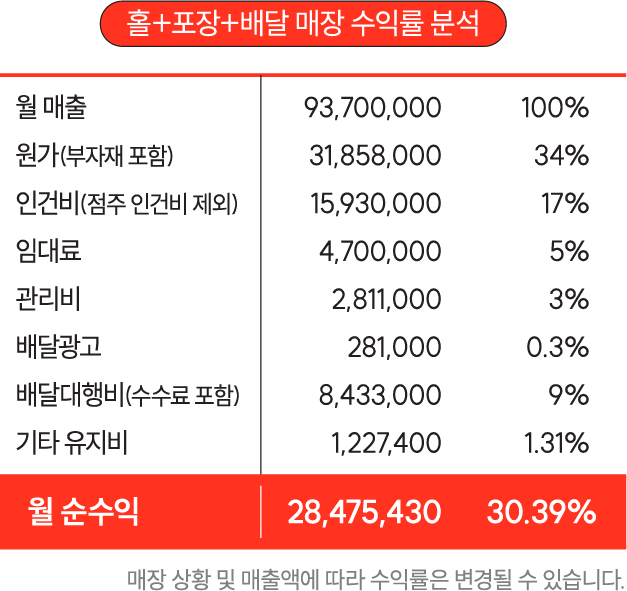
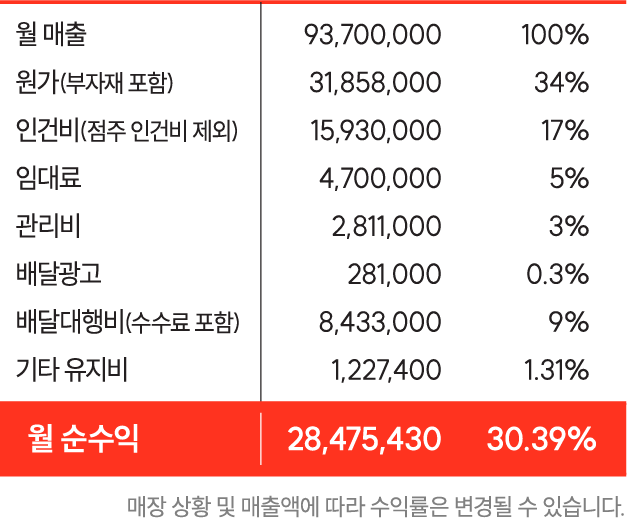
fix: 모바일 화면에 맞춘 레이아웃 및 스타일 개선

diff --git a/src/components/main/sub/sub_3/Sub3Section4.tsx b/src/components/main/sub/sub_3/Sub3Section4.tsx
@@ -383,7 +383,7 @@ const Sub3Section4: React.FC = () => {
             <span
               className={`${
                 deviceInfo.isSmallScreen || deviceInfo.isMobile
-                  ? 'my-1 flex-col text-center'
+                  ? 'my-1 flex-col text-center gap-1'
                   : 'flex-col text-center gap-2'
               } flex `}
             >
@@ -405,60 +405,57 @@ const Sub3Section4: React.FC = () => {
       {deviceInfo.isSmallScreen || deviceInfo.isMobile ? (
         <>
           <div
-            className={`aspect-[720/1305] mt-10 my-20 bg-no-repeat bg-center bg-contain flex flex-col items-center justify-end w-full h-full`}
+            className={`aspect-[720/400] mt-10 bg-no-repeat bg-top bg-cover flex flex-col items-center justify-end w-full h-full`}
             style={{
               backgroundImage: `url(${process.env.PUBLIC_URL}/sub_3/sub_3_4_4_mo.webp)`,
             }}
+          ></div>
+          <div
+            className={`${
+              deviceInfo.isSmallScreen || deviceInfo.isMobile ? '' : ''
+            } w-full leading-none bg-[#F2F2F2] mb-20`}
           >
             <div
-              className={`${
-                deviceInfo.isSmallScreen || deviceInfo.isMobile ? '' : ''
-              } w-full leading-none`}
+              className={`text-slbContentMo font-normal text-center flex flex-col items-center `}
             >
-              <div
-                className={`text-slbContentMo font-normal text-center flex flex-col items-center `}
-              >
-                <>
-                  <p className=' leading-normal'>
-                    SLB는 가맹점의 매출 및 수익성을 높이기 위해
-                  </p>
-                  <span className='font-medium'>
-                    한식을 접목한 샐러드&포케 프리미엄 브랜드로
-                  </span>
-                  <p className=' leading-normal mb-4'>
-                    <span className='font-medium'>성장하는 중</span>
-                    입니다.
-                  </p>
-                  <p className=' leading-normal'>
-                    점주님들이 브랜드에 자부심을 가지실 수 있도록
-                  </p>
-                  <p className=' leading-normal mb-4'>
-                    SLB는{' '}
-                    <span className='font-medium'>
-                      최소한의 인테리어를 시행
-                    </span>
-                    하고 있습니다.
-                  </p>
-                  <p className=' leading-normal flex flex-col'>
-                    무책임하게 가맹점을 늘리기보다
-                    <span>책임 있는 자세로 가맹점을 관리하고</span>
-                  </p>
-                  <p className=' leading-normal flex flex-col'>
-                    <span>돈을 버실 수 있도록</span>
-                    도움을 드리고 싶습니다.
-                  </p>
-                  <div
-                    className={`w-[1px]  border border-black  ${
-                      deviceInfo.isSmallScreen || deviceInfo.isMobile
-                        ? 'h-10 my-4'
-                        : 'h-20 my-10'
-                    }`}
-                  />
-                  <p className='Slb-SubTitle-mo leading-normal text-[#FF331F] mb-10'>
-                    SLB에게 가맹점은 ‘돈’벌이 수단이 아닌 ‘가족’입니다.
-                  </p>
-                </>
-              </div>
+              <>
+                <p className=' leading-normal'>
+                  SLB는 가맹점의 매출 및 수익성을 높이기 위해
+                </p>
+                <span className='font-medium'>
+                  한식을 접목한 샐러드&포케 프리미엄 브랜드로
+                </span>
+                <p className=' leading-normal mb-4'>
+                  <span className='font-medium'>성장하는 중</span>
+                  입니다.
+                </p>
+                <p className=' leading-normal'>
+                  점주님들이 브랜드에 자부심을 가지실 수 있도록
+                </p>
+                <p className=' leading-normal mb-4'>
+                  SLB는{' '}
+                  <span className='font-medium'>최소한의 인테리어를 시행</span>
+                  하고 있습니다.
+                </p>
+                <p className=' leading-normal flex flex-col'>
+                  무책임하게 가맹점을 늘리기보다
+                  <span>책임 있는 자세로 가맹점을 관리하고</span>
+                </p>
+                <p className=' leading-normal flex flex-col'>
+                  <span>돈을 버실 수 있도록</span>
+                  도움을 드리고 싶습니다.
+                </p>
+                <div
+                  className={`w-[1px]  border border-black  ${
+                    deviceInfo.isSmallScreen || deviceInfo.isMobile
+                      ? 'h-10 my-4'
+                      : 'h-20 my-10'
+                  }`}
+                />
+                <p className='Slb-SubTitle-mo leading-normal text-[#FF331F] mb-10'>
+                  SLB에게 가맹점은 ‘돈’벌이 수단이 아닌 ‘가족’입니다.
+                </p>
+              </>
             </div>
           </div>
         </>

diff --git a/src/components/main/sub/sub_4/Sub4Section1.tsx b/src/components/main/sub/sub_4/Sub4Section1.tsx
@@ -365,7 +365,7 @@ const Sub4Section1: React.FC = () => {
           loading='lazy'
           className={`${
             deviceInfo.isSmallScreen || deviceInfo.isMobile
-              ? 'w-[280px] max-w-full mx-auto aspect-[623/1200] my-20'
+              ? 'w-[280px] max-w-full mx-auto aspect-[623/1000] my-20'
               : 'w-full aspect-[1904/427] my-40'
           }`}
           alt={`상권DB 유동인구DB 인구DB 부동산DB 매출DB 지역특성DB`}
@@ -491,7 +491,7 @@ const Sub4Section1: React.FC = () => {
               <div
                 className={`${
                   deviceInfo.isSmallScreen || deviceInfo.isMobile
-                    ? 'Slb-Title-mo flex-col mt-4'
+                    ? 'Slb-Title-mo flex-col mt-1'
                     : ''
                 } flex items-center`}
               >
@@ -514,7 +514,6 @@ const Sub4Section1: React.FC = () => {
                     <span className=' bg-[#FF331F] ml-1 px-1 text-White'>
                       우수한 매장
                     </span>
-                    을
                   </p>
                   을
                 </div>
@@ -688,7 +687,7 @@ const Sub4Section1: React.FC = () => {
               <div
                 className={`${
                   deviceInfo.isSmallScreen || deviceInfo.isMobile
-                    ? 'mb-1 flex-col items-center'
+                    ? 'mb-10 flex-col items-center'
                     : 'mb-20 items-end'
                 } flex leading-none`}
               >
@@ -920,26 +919,26 @@ const Sub4Section1: React.FC = () => {
           <p>확인해 보세요</p>
         </span>
       </div>
-      
+
       <div
         className={`${
           deviceInfo.isSmallScreen || deviceInfo.isMobile ? 'px-8' : ''
         } flex flex-col items-center`}
       >
         <div
-            className={`${
-              deviceInfo.isSmallScreen || deviceInfo.isMobile
-                ? 'Slb-Content-mo mt-6 mb-4'
-                : 'Slb-Content mt-20 mb-6'
-            } rounded-[4rem] w-fit bg-Point text-White px-4 `}
-          >
-            홀+포장+배달 매장 수익률 분석
-      </div>
+          className={`${
+            deviceInfo.isSmallScreen || deviceInfo.isMobile
+              ? 'Slb-Content-mo mt-6 mb-4'
+              : 'Slb-Content mt-20 mb-6'
+          } rounded-[4rem] w-fit bg-Point text-White px-4 `}
+        >
+          홀+포장+배달 매장 수익률 분석
+        </div>
         <img
           loading='lazy'
           className={`${
             deviceInfo.isSmallScreen || deviceInfo.isMobile
-              ? 'aspect-[626/589] mb-6'
+              ? 'aspect-[627/518] mb-6'
               : 'aspect-[1066/588] mb-20 max-w-[1000px]'
           } w-full`}
           alt={`현재 경기 성장률은 낮고, 물가는 매년 상승 중 물류비용 또한 상승하는 것은 당연한 일입니다.`}
@@ -948,19 +947,19 @@ const Sub4Section1: React.FC = () => {
           }.webp`}
         />
         <div
-            className={`${
-              deviceInfo.isSmallScreen || deviceInfo.isMobile
-                ? 'Slb-Content-mo mt-6 mb-4'
-                : 'Slb-Content mt-20 mb-6'
-            } rounded-[4rem] w-fit bg-Point text-White px-4 `}
-          >
-            배달 전용 매장 수익률 분석
-      </div>
+          className={`${
+            deviceInfo.isSmallScreen || deviceInfo.isMobile
+              ? 'Slb-Content-mo mt-6 mb-4'
+              : 'Slb-Content mt-20 mb-6'
+          } rounded-[4rem] w-fit bg-Point text-White px-4 `}
+        >
+          배달 전용 매장 수익률 분석
+        </div>
         <img
           loading='lazy'
           className={`${
             deviceInfo.isSmallScreen || deviceInfo.isMobile
-              ? 'aspect-[626/589] mb-6'
+              ? 'aspect-[627/588] mb-6'
               : 'aspect-[1066/588] max-w-[1000px] mb-20'
           } w-full`}
           alt={`현재 경기 성장률은 낮고, 물가는 매년 상승 중 물류비용 또한 상승하는 것은 당연한 일입니다.`}

diff --git a/src/components/main/sub/sub_4/Sub4Section4.tsx b/src/components/main/sub/sub_4/Sub4Section4.tsx
@@ -315,7 +315,7 @@ const Sub4Section4: React.FC = () => {
       {/* 05/15 변경 -SH */}
       {/* <Chip text='Point 6' type='black' /> */}
       <SlideUpOnView>
-        <div className='flex flex-col text-center leading-none mb-40'>
+        <div className='flex flex-col text-center leading-none '>
           <span
             className={`${
               deviceInfo.isSmallScreen || deviceInfo.isMobile
@@ -336,8 +336,8 @@ const Sub4Section4: React.FC = () => {
           <p
             className={`${
               deviceInfo.isSmallScreen || deviceInfo.isMobile
-                ? 'Slb-Point-mo'
-                : 'Slb-Point'
+                ? 'Slb-Point-mo mb-10'
+                : 'Slb-Point mb-40'
             } leading-none`}
           >
             SLB 본사의 노력
